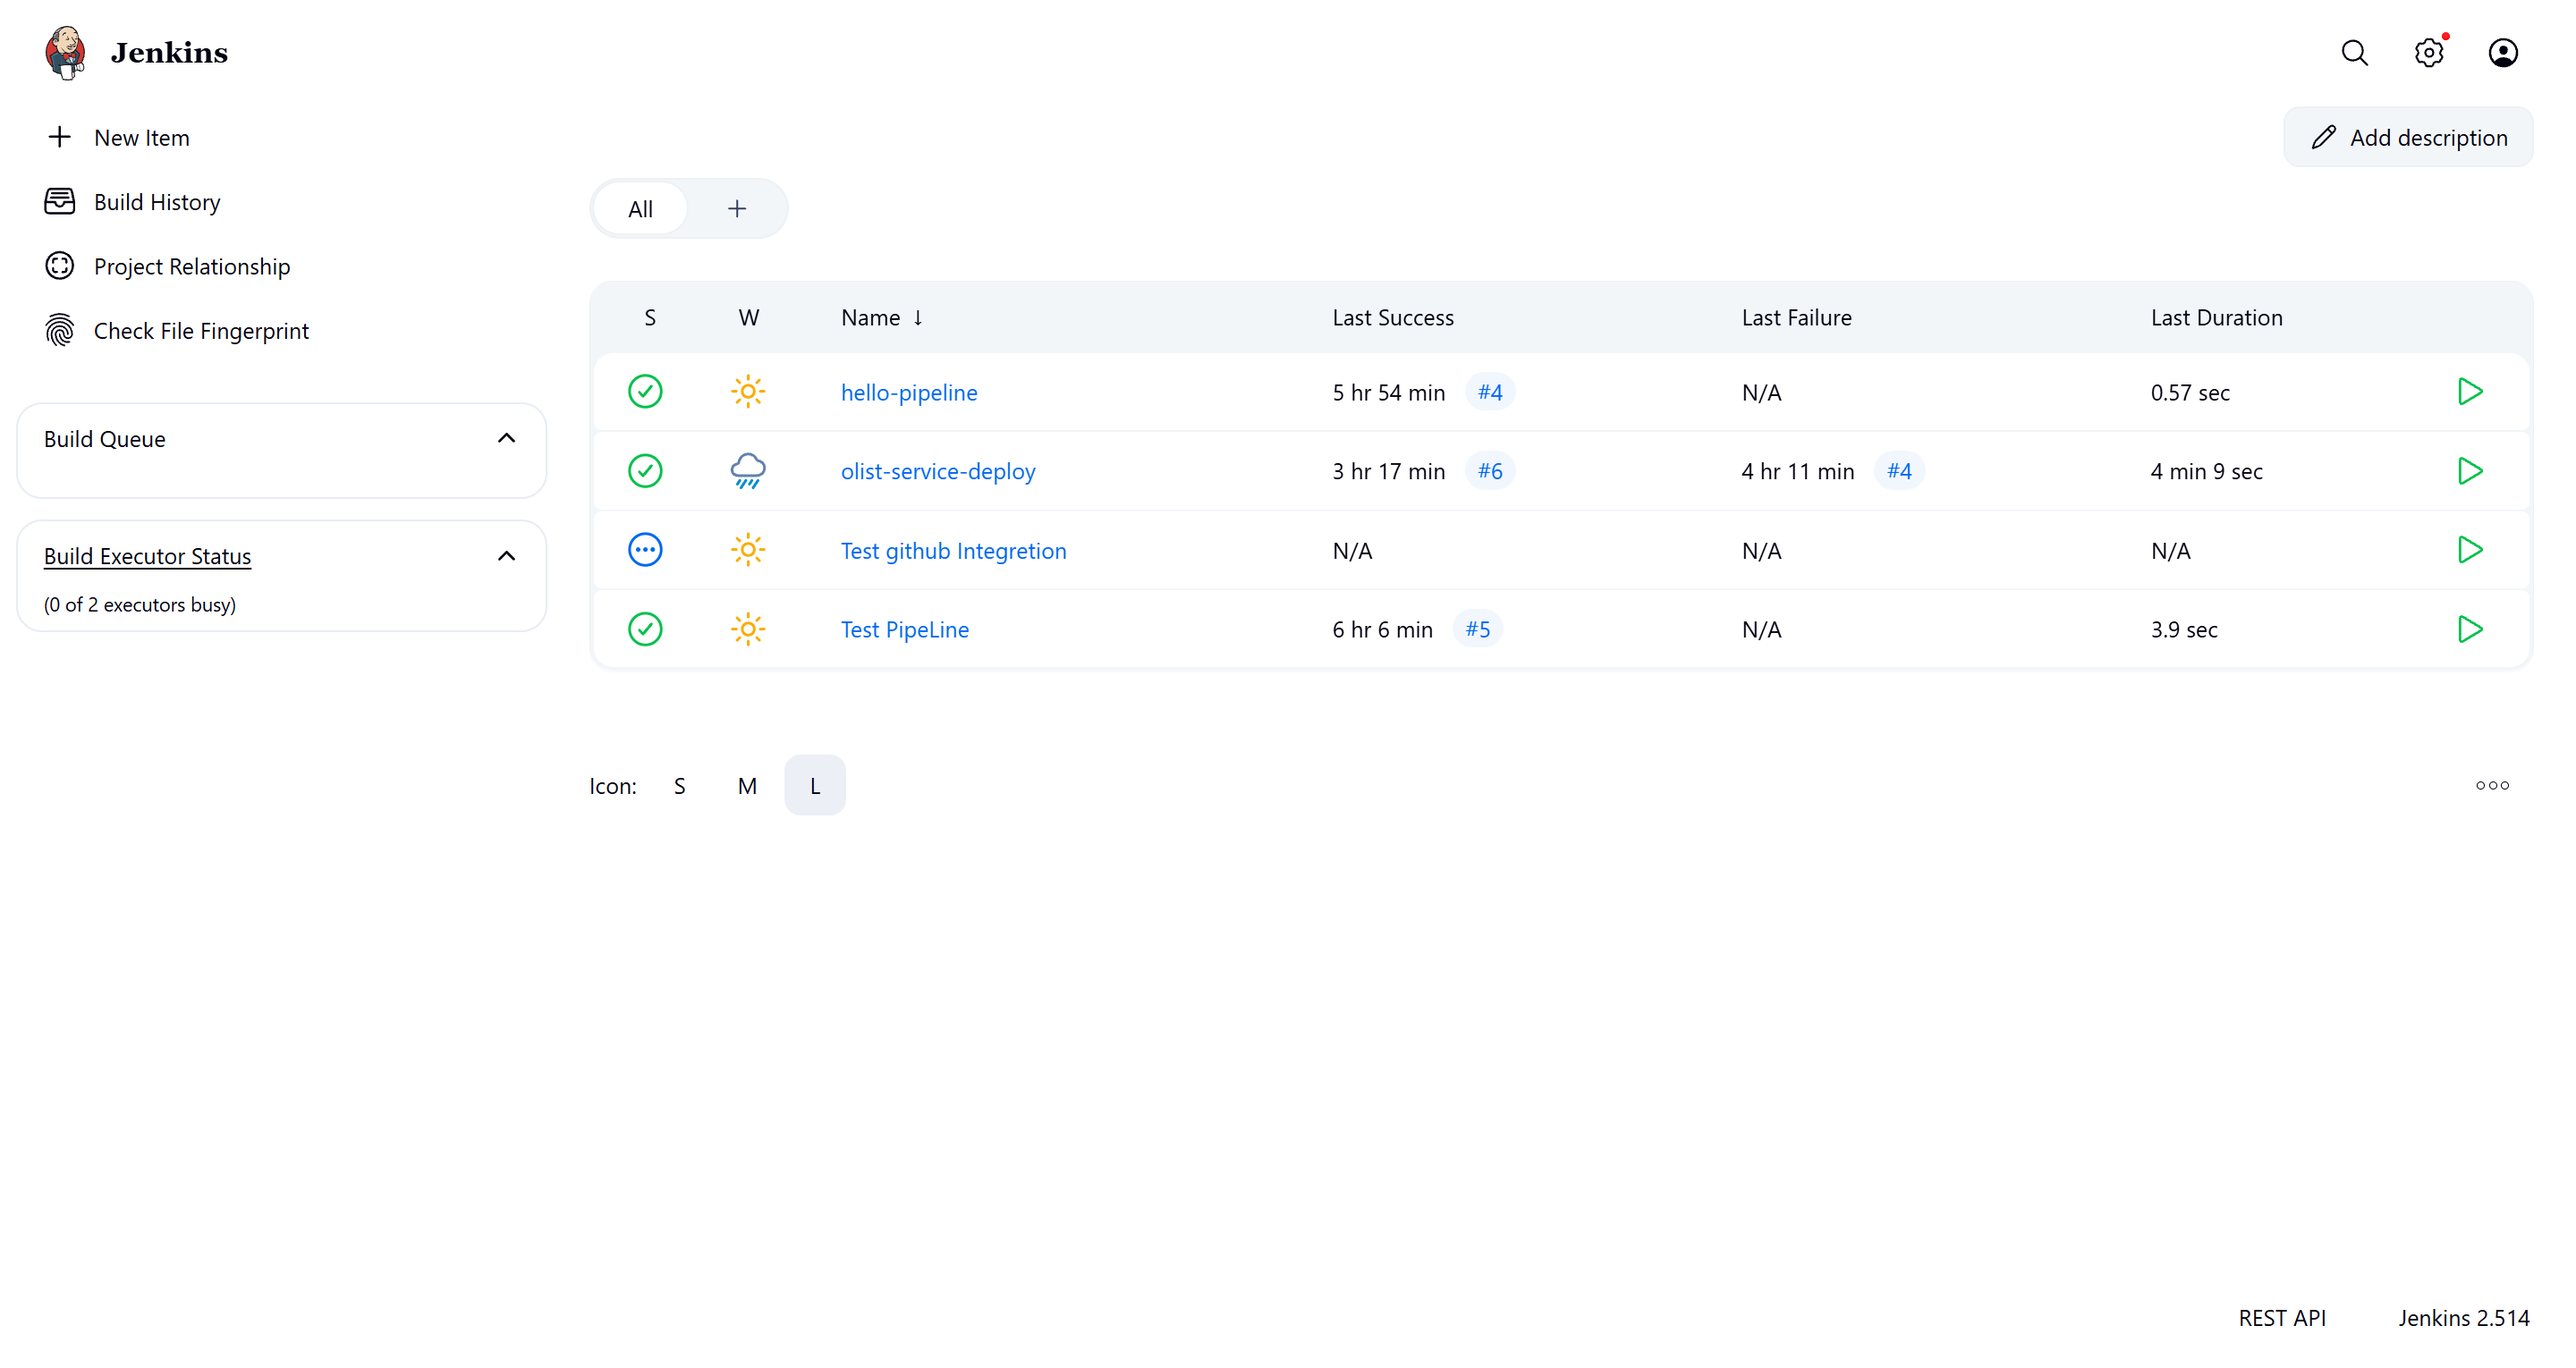
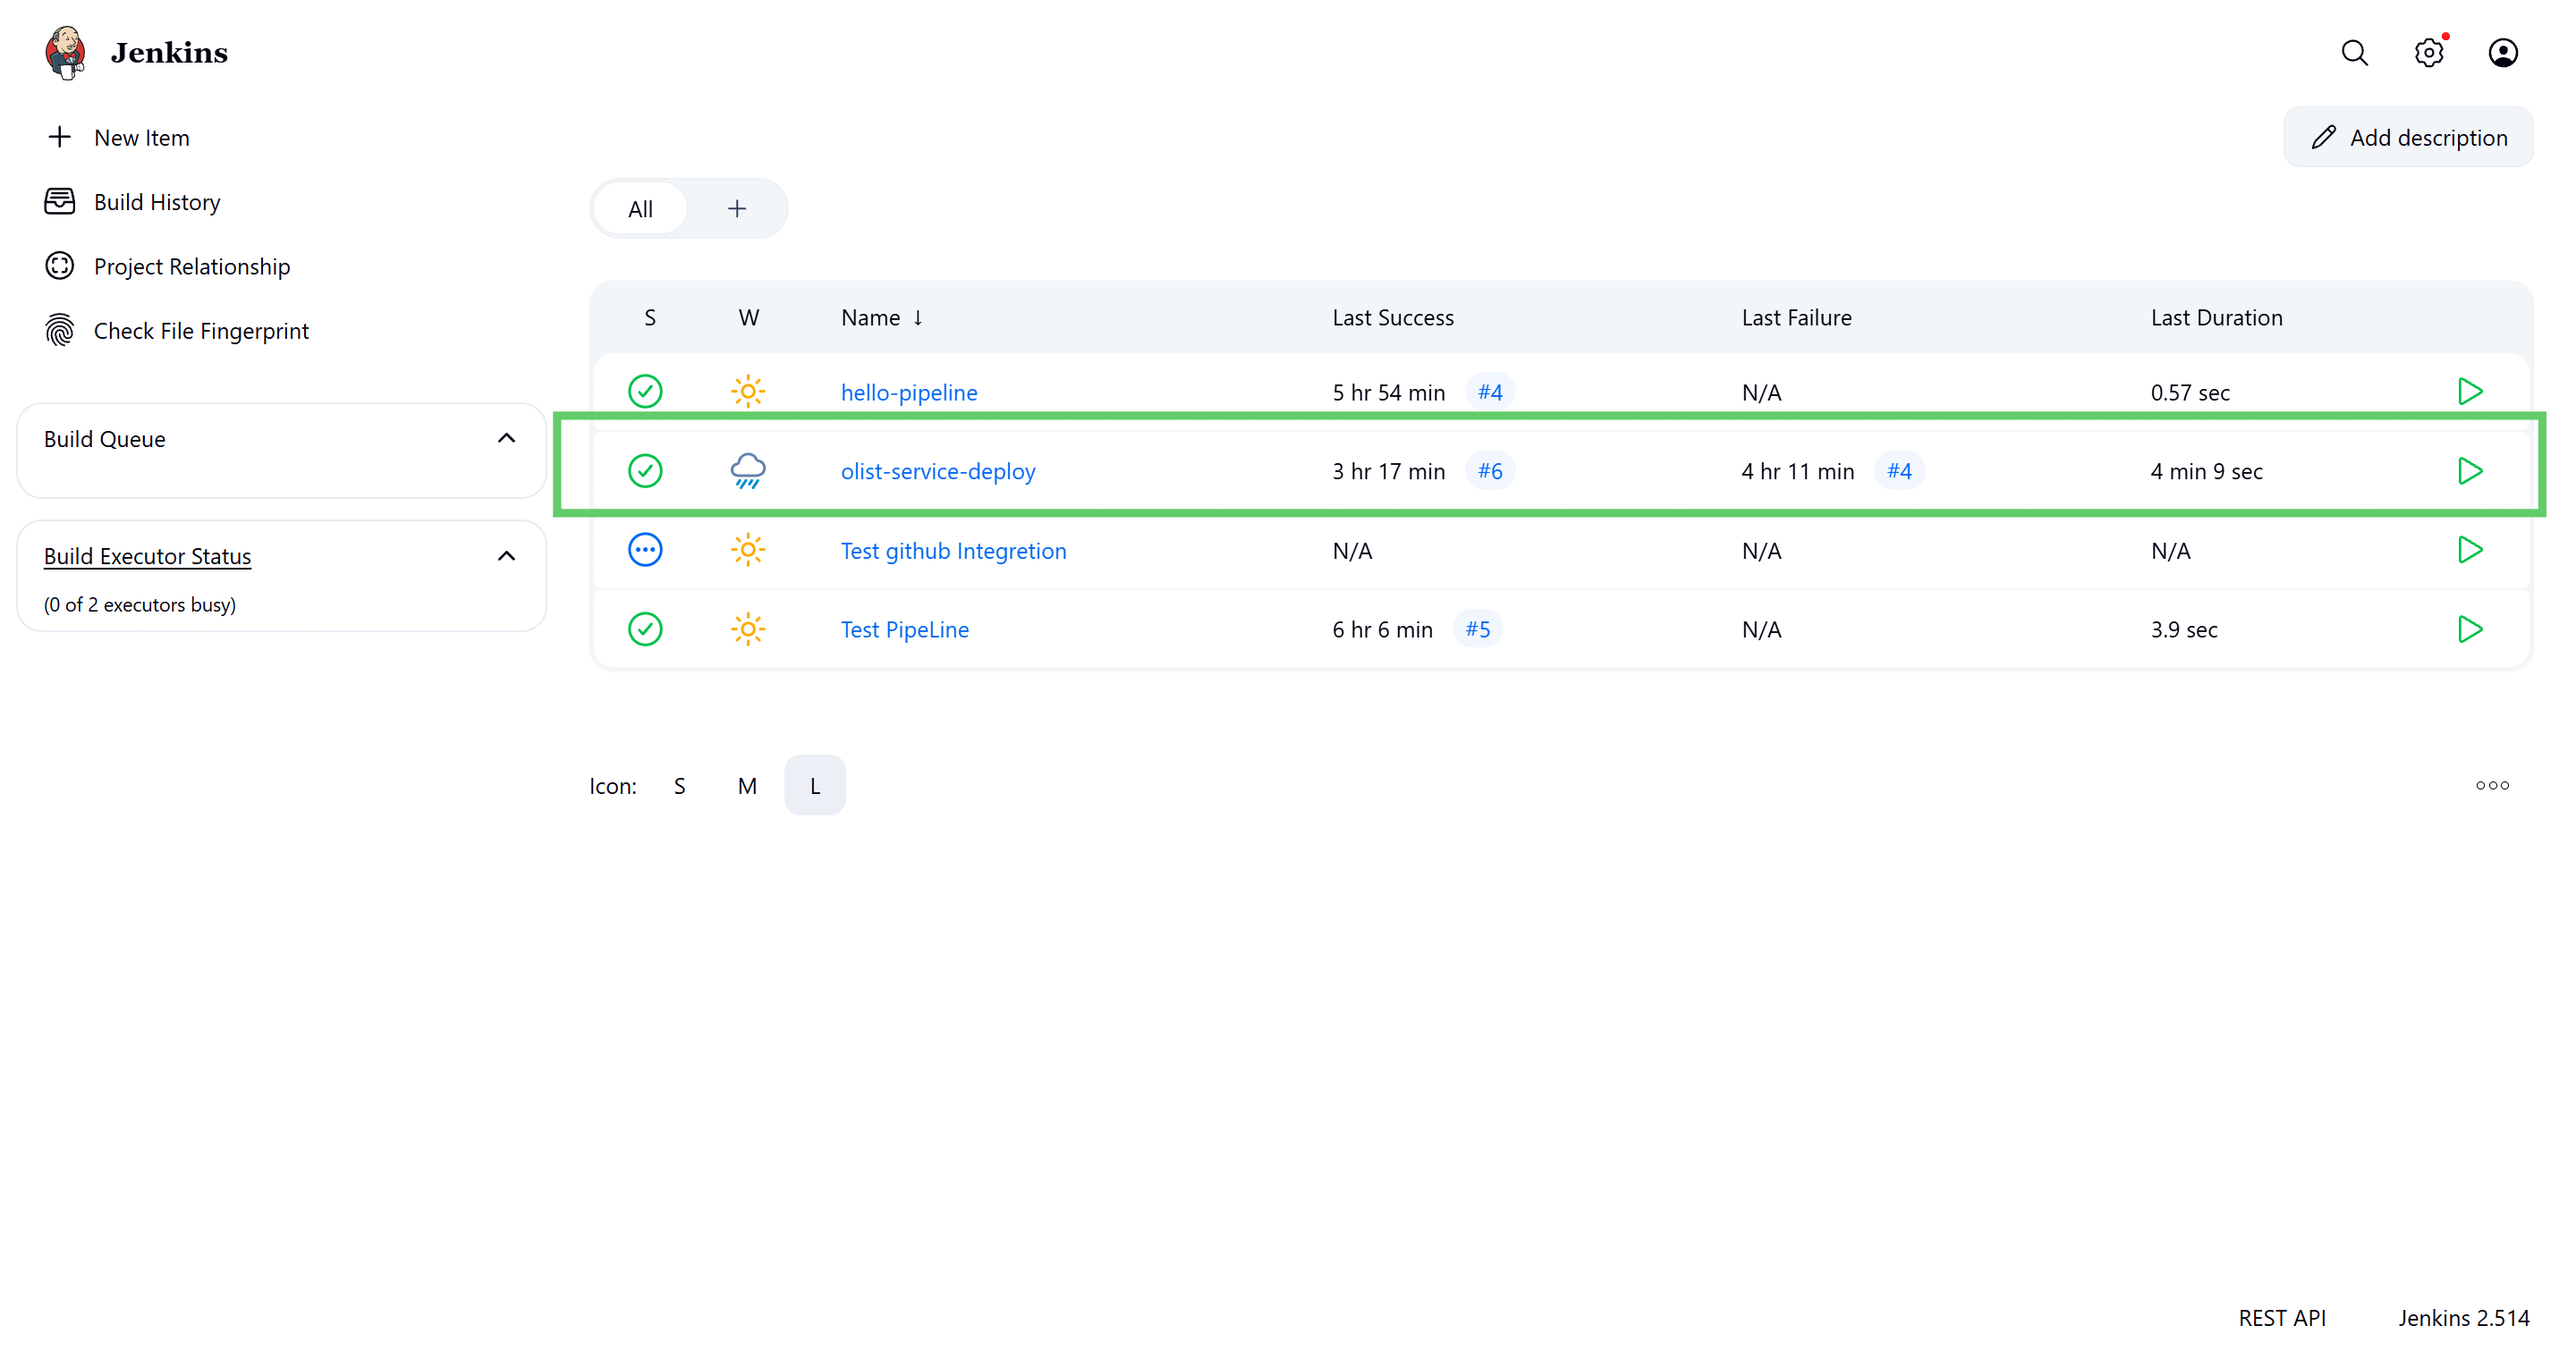
README.md in DEV Branch

Changed region(s): [[0.2188, 0.2765, 1.0, 0.3993], [0.1875, 0.3072, 0.2188, 0.3686]]

diff --git a/README.md b/README.md
@@ -48,16 +48,18 @@ Illustrates the overall system architecture, deployment environment, microservic
 - REST API
 - Microservice Architecture
 - JUnit5
-- Mockito 5.4.0
+- Mockito 5.4.0 
 - Neon (Free-tier PostgreSQL Database)
 - Render (Free-tier Deployment)
 
-> *Additional technologies used for deployment and demo*
+> *Additional technologies used for deployment and demo on AWS*
 
 - AWS EC2
 - Docker
+- Docker Hub
 - Jenkins CI/CD Pipeline
 - GitHub Actions
+
 
 ---
 ## 📦 Common Libraries
@@ -213,8 +215,9 @@ For Backend API Health Check
  
 > **Deploy Configurations:** The [Development Documentation](https://github.com/Thiraporn/Development-Documents/tree/main/documents/Deploy_Configurations) demonstrates the AWS deployment process in the section below.
 
-Here is an example of the Jenkins Pipeline:
 ![Deploy_Configurations.png](documents/images/Deploy_Configurations.png)
+
+Here is an example of the Jenkins Pipeline:
 
 ![Deployment&DevOps_AWS_Jenkins.png](documents/images/Deployment%26DevOps_AWS_Jenkins.png)
 
